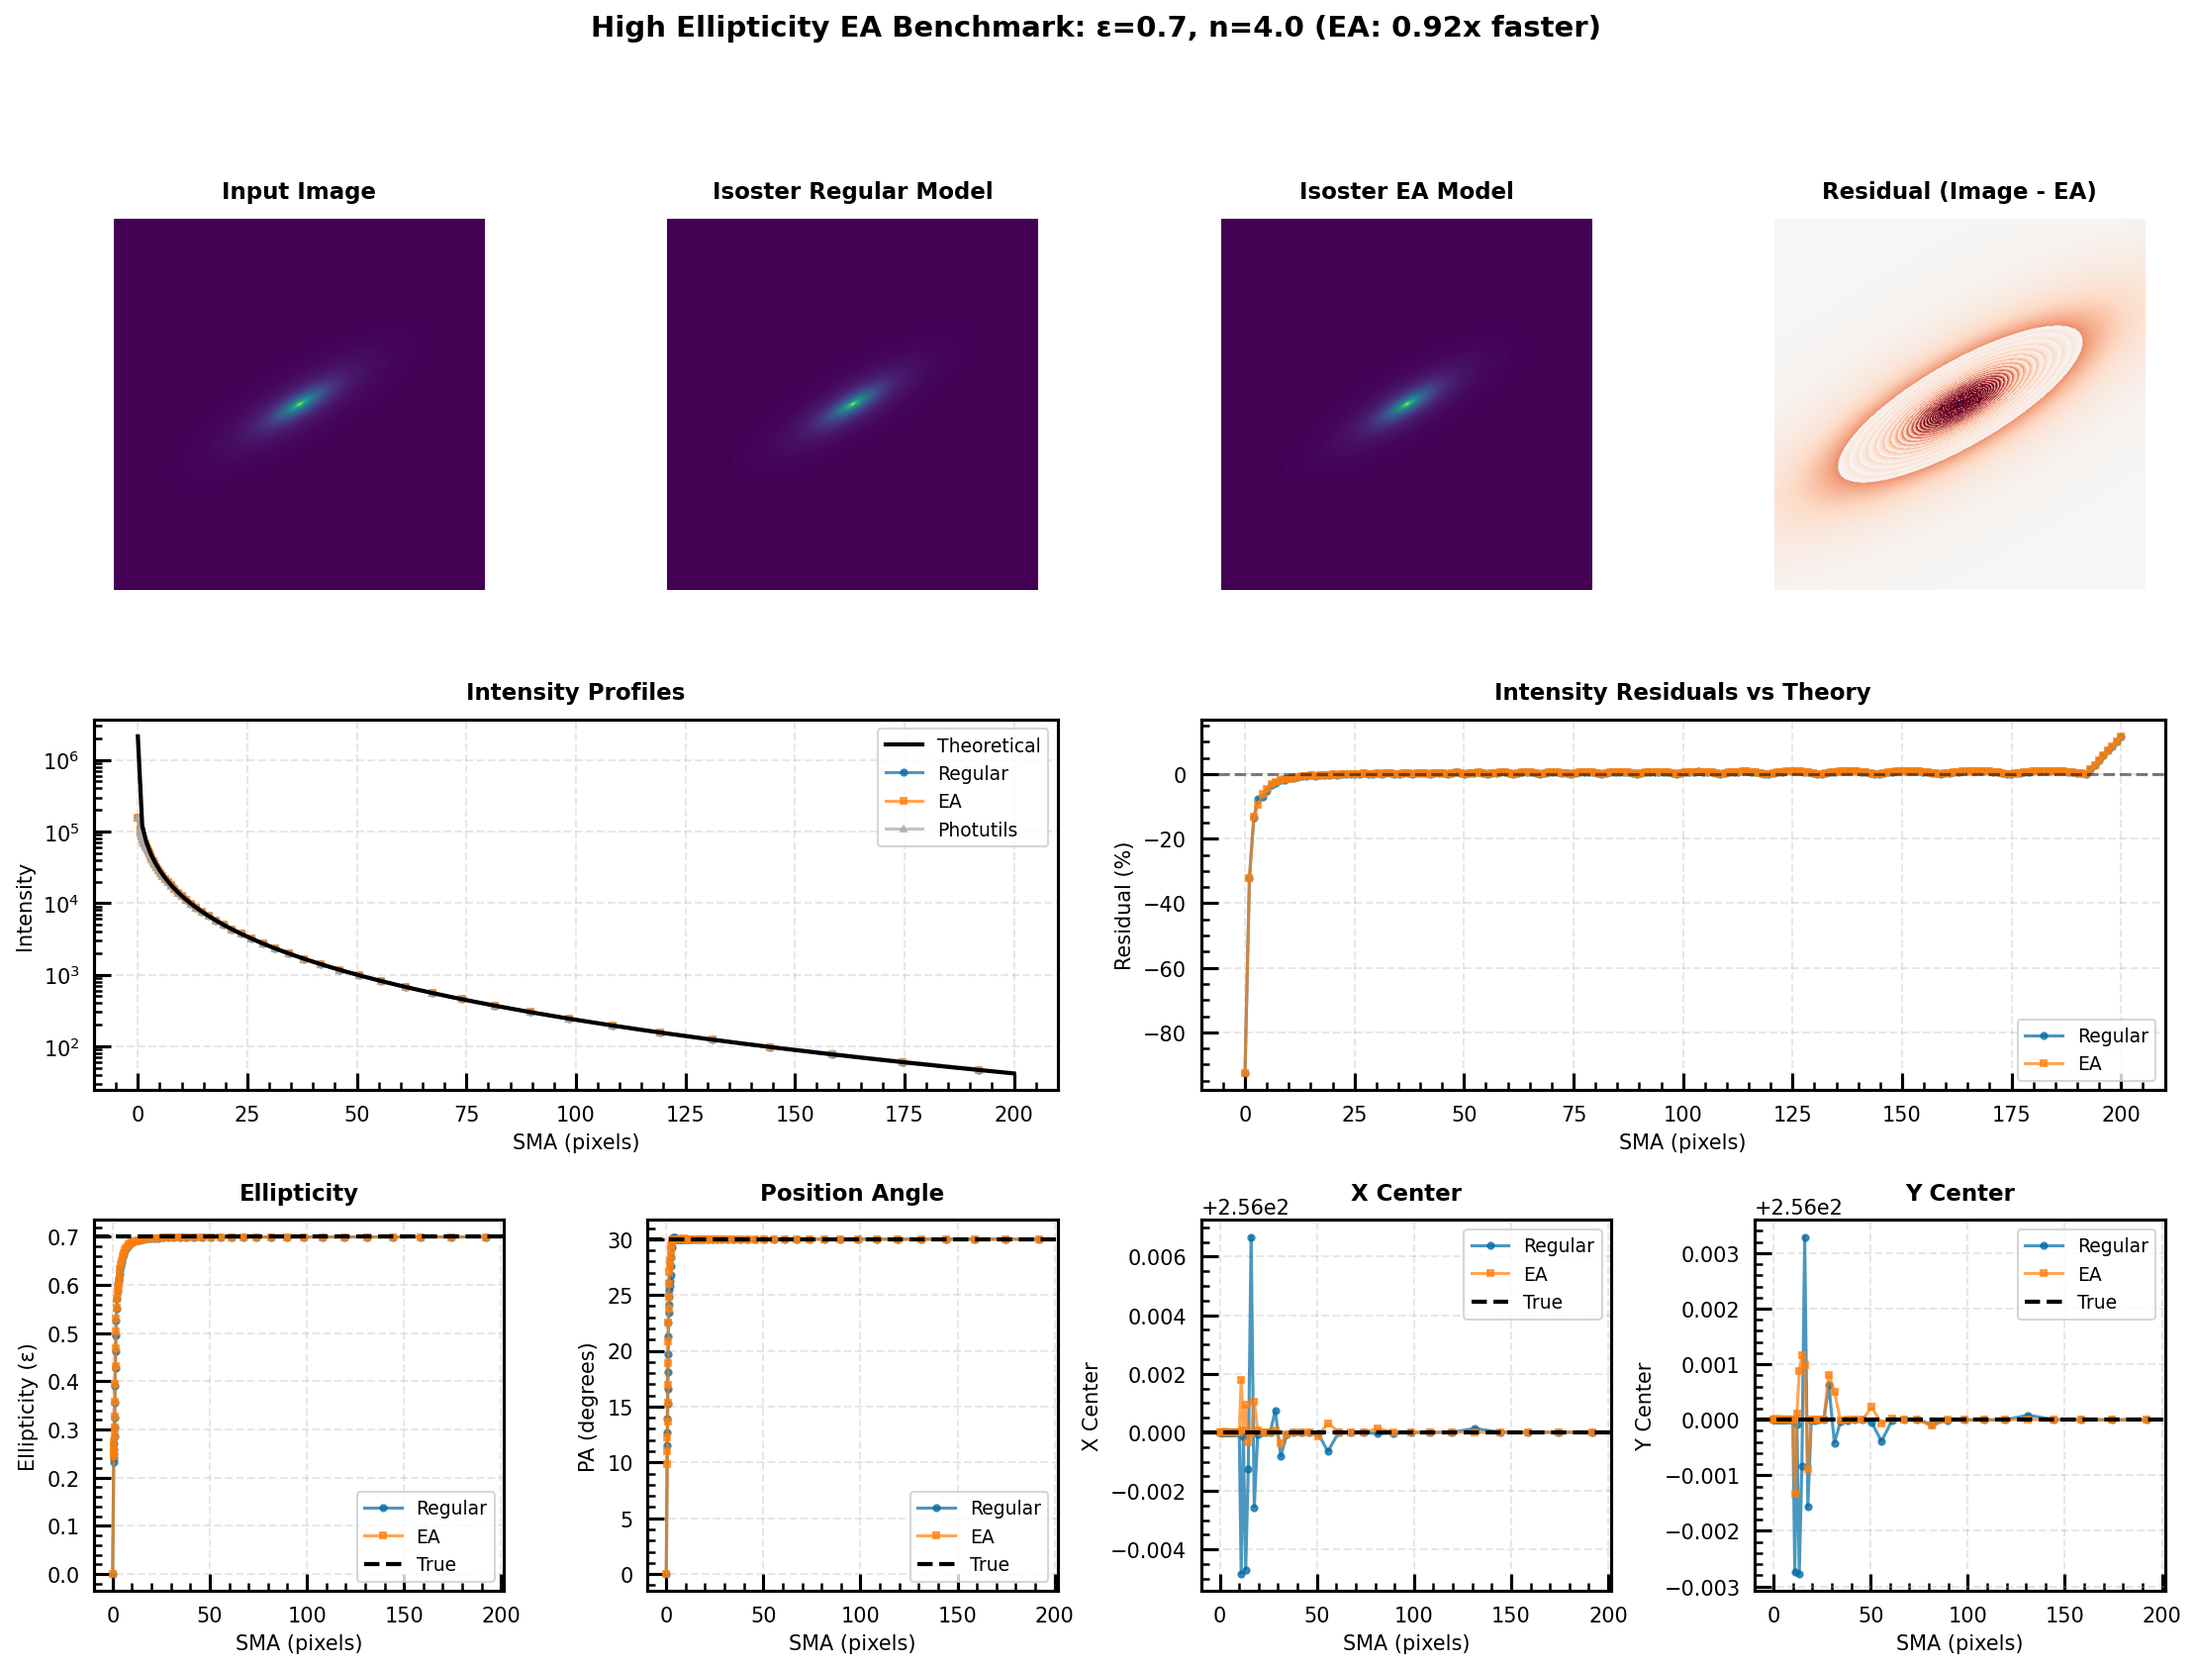
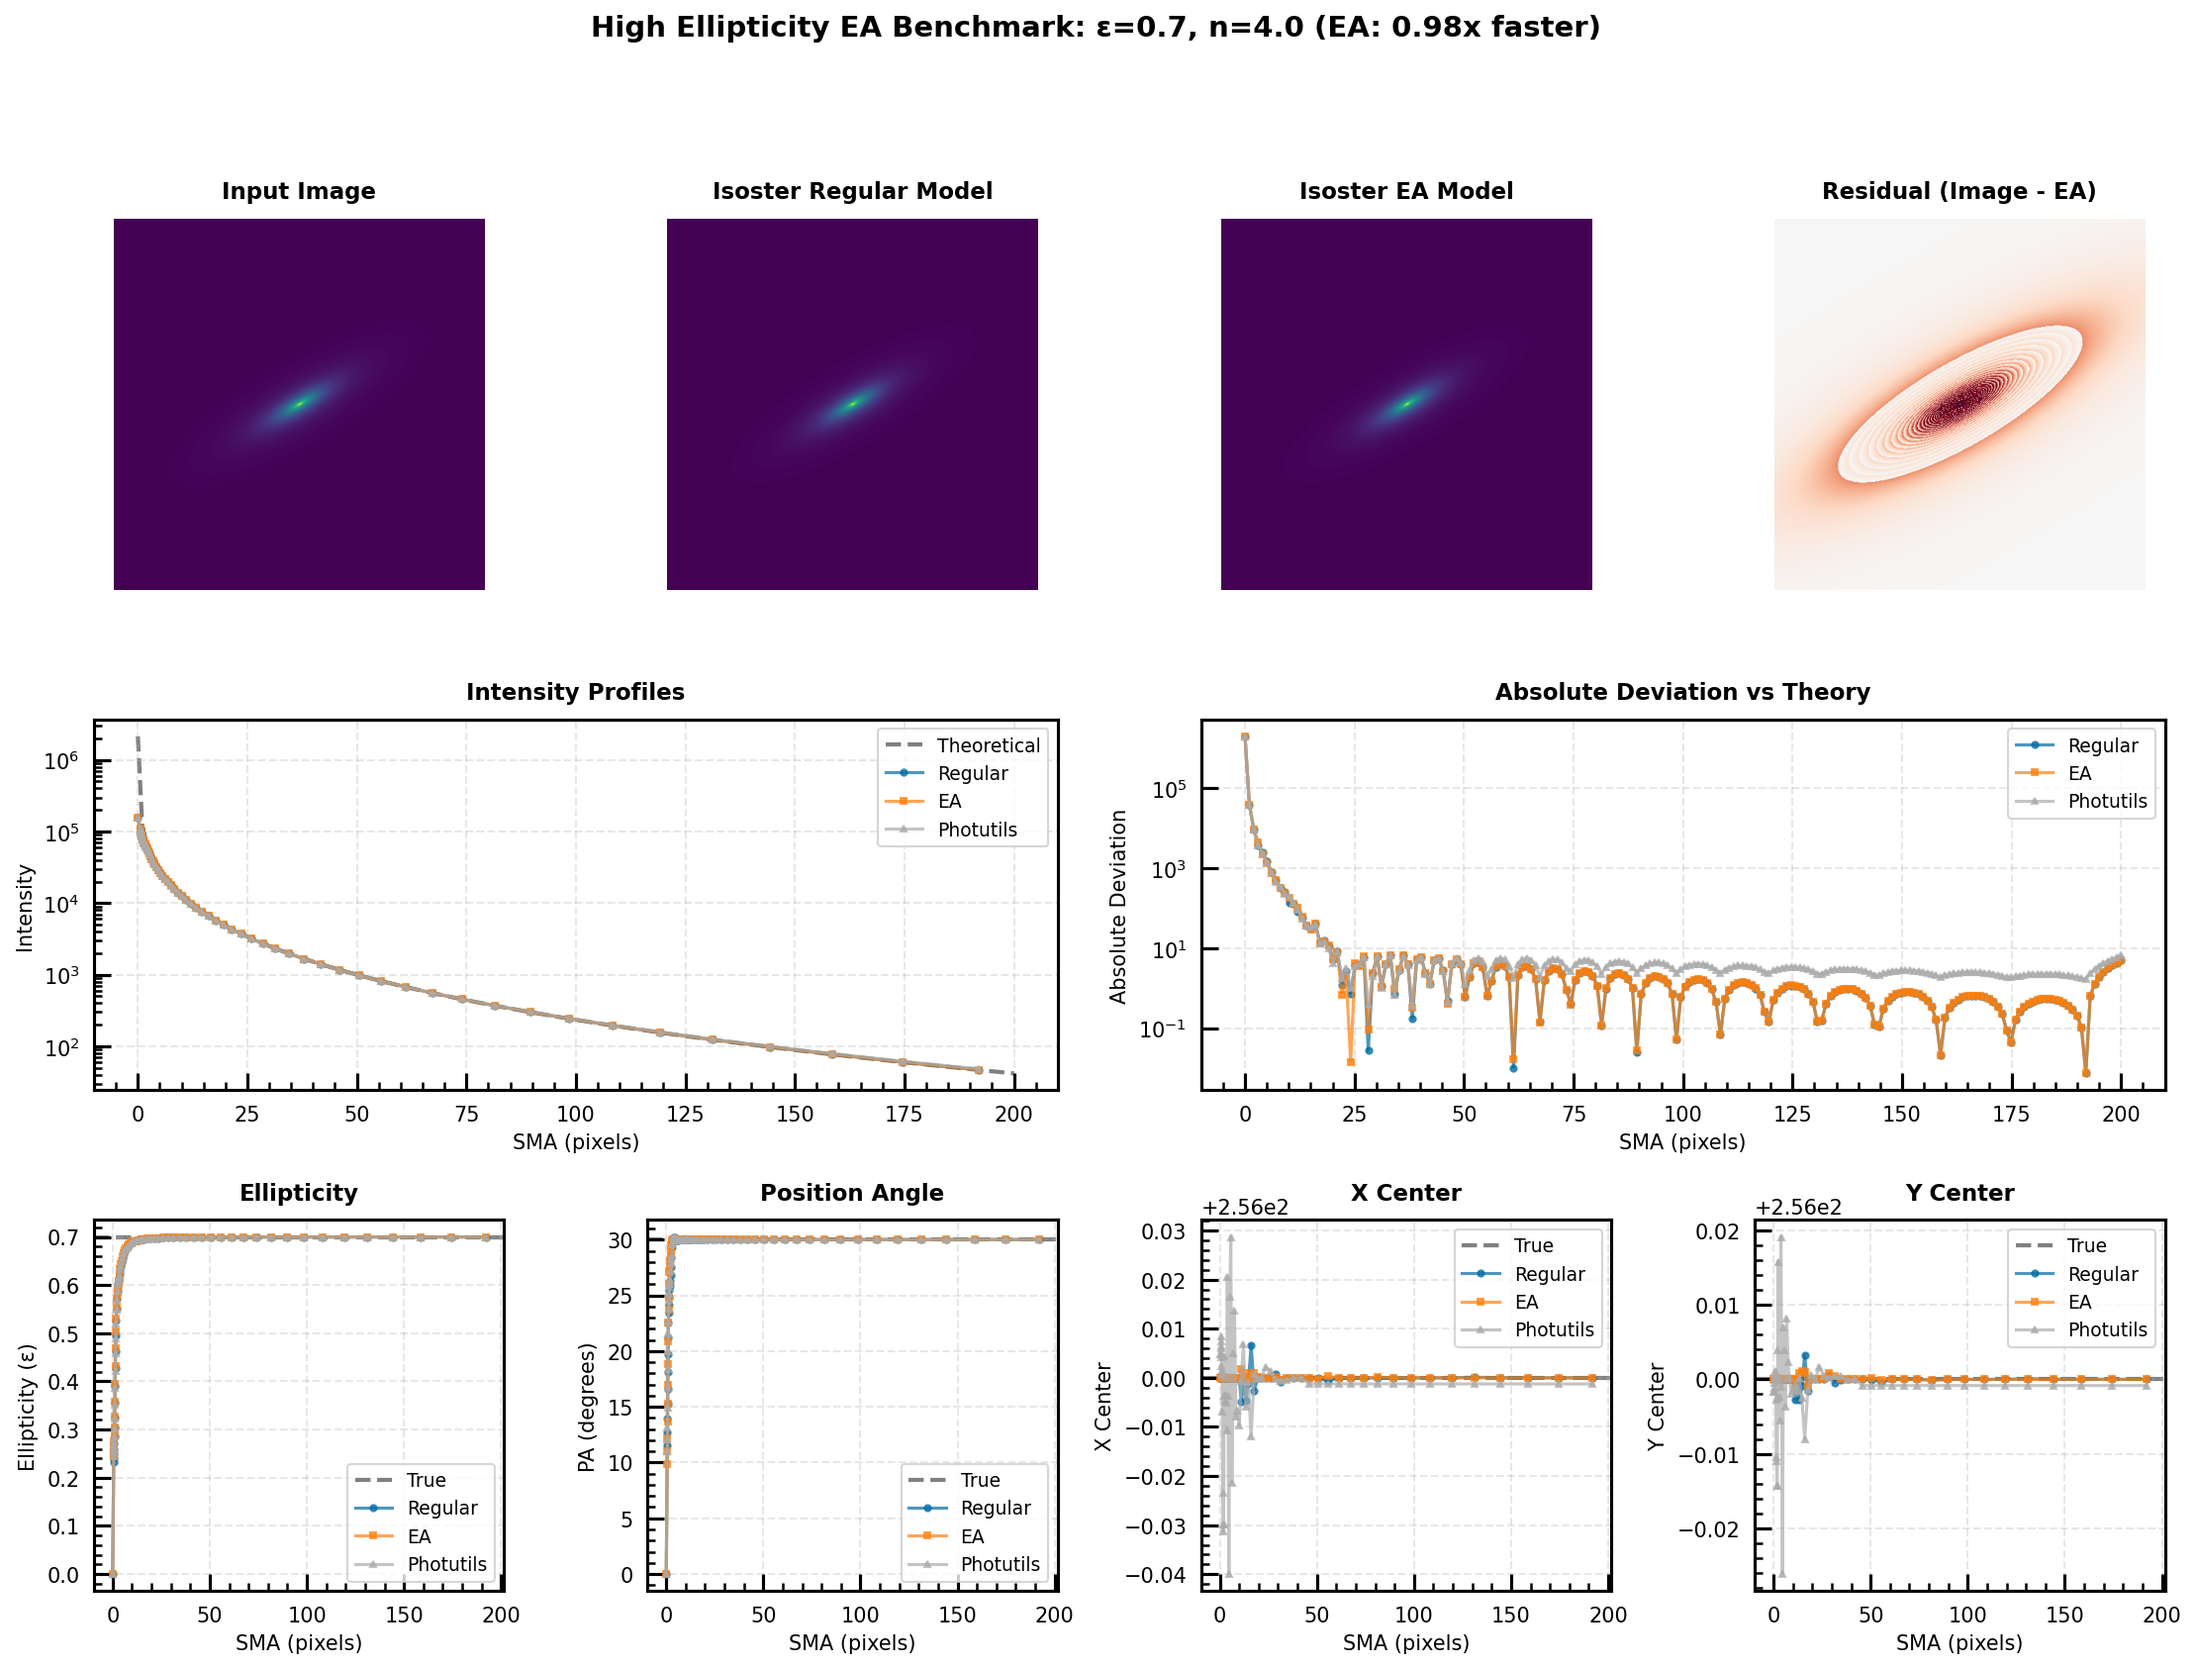
Update EA benchmark: 50x oversample, abs deviation log scale, photutils in all panels, grey dashed reference

diff --git a/examples/run_high_ellipticity_test.py b/examples/run_high_ellipticity_test.py
@@ -48,12 +48,12 @@ def sersic_1d_profile_major_axis(sma_array, I_e, r_e, n, eps):
     """
     return sersic_profile(sma_array, I_e, r_e, n)
 
-def generate_high_ellipticity_sersic(size=512, I_e=1000.0, r_e=50.0, n=4.0, eps=0.7, pa=30.0, oversample=30):
+def generate_high_ellipticity_sersic(size=512, I_e=1000.0, r_e=50.0, n=4.0, eps=0.7, pa=30.0, oversample=50):
     """
-    Generate high-ellipticity Sersic profile with high oversampling.
+    Generate high-ellipticity Sersic profile with very high oversampling.
     
     Args:
-        oversample: Oversampling factor (30 for accuracy with steep gradients)
+        oversample: Oversampling factor (50 for accuracy with high n and high ε)
     """
     # Create oversampled grid
     size_over = size * oversample
@@ -139,13 +139,13 @@ def run_comprehensive_test():
     pa = 30.0
     
     image, params = generate_high_ellipticity_sersic(
-        size=512, I_e=I_e, r_e=r_e, n=n, eps=eps, pa=pa, oversample=30
+        size=512, I_e=I_e, r_e=r_e, n=n, eps=eps, pa=pa, oversample=50
     )
     
     print(f"   Size: {image.shape[0]}x{image.shape[1]}")
     print(f"   I_e: {I_e}, r_e: {r_e}, n: {n}")
     print(f"   eps: {eps} (b/a = {1-eps:.2f}), PA: {pa}°")
-    print(f"   Oversample: 30x for accurate rendering")
+    print(f"   Oversample: 50x for accurate rendering")
     
     # Shared configuration - FREE GEOMETRY
     base_config = dict(
@@ -243,6 +243,15 @@ def run_comprehensive_test():
     ea_x0 = np.array([iso['x0'] for iso in ea_iso])
     ea_y0 = np.array([iso['y0'] for iso in ea_iso])
     
+    # Photutils data
+    if photutils_iso:
+        phot_sma = np.array([iso['sma'] for iso in photutils_iso])
+        phot_intens = np.array([iso['intens'] for iso in photutils_iso])
+        phot_eps = np.array([iso['eps'] for iso in photutils_iso])
+        phot_pa = np.array([iso['pa'] for iso in photutils_iso])
+        phot_x0 = np.array([iso['x0'] for iso in photutils_iso])
+        phot_y0 = np.array([iso['y0'] for iso in photutils_iso])
+    
     # Theoretical profile
     common_sma = np.linspace(0, 200, 200)
     theoretical_intens = sersic_1d_profile_major_axis(common_sma, I_e, r_e, n, eps)
@@ -281,12 +290,10 @@ def run_comprehensive_test():
     ax_intens = fig.add_subplot(gs[1, :2])
     ax_intens_resid = fig.add_subplot(gs[1, 2:])
     
-    ax_intens.semilogy(common_sma, theoretical_intens, 'k-', linewidth=2, label='Theoretical', zorder=10)
+    ax_intens.semilogy(common_sma, theoretical_intens, '--', color='grey', linewidth=2, label='Theoretical', zorder=0)
     ax_intens.semilogy(reg_sma, reg_intens, 'o-', markersize=3, label='Regular', alpha=0.7)
     ax_intens.semilogy(ea_sma, ea_intens, 's-', markersize=3, label='EA', alpha=0.7)
     if photutils_iso:
-        phot_sma = np.array([iso['sma'] for iso in photutils_iso])
-        phot_intens = np.array([iso['intens'] for iso in photutils_iso])
         ax_intens.semilogy(phot_sma, phot_intens, '^-', markersize=3, label='Photutils', alpha=0.7)
     ax_intens.set_xlabel('SMA (pixels)', fontsize=10)
     ax_intens.set_ylabel('Intensity', fontsize=10)
@@ -294,20 +301,24 @@ def run_comprehensive_test():
     ax_intens.grid(True, alpha=0.3)
     ax_intens.set_title('Intensity Profiles', fontsize=11, weight='bold')
     
-    # Intensity residuals vs theoretical
+    # Absolute deviation vs theoretical
     reg_intens_interp = np.interp(common_sma, reg_sma, reg_intens)
     ea_intens_interp = np.interp(common_sma, ea_sma, ea_intens)
-    reg_resid = (reg_intens_interp - theoretical_intens) / theoretical_intens * 100
-    ea_resid = (ea_intens_interp - theoretical_intens) / theoretical_intens * 100
+    reg_abs_dev = np.abs(reg_intens_interp - theoretical_intens)
+    ea_abs_dev = np.abs(ea_intens_interp - theoretical_intens)
+    if photutils_iso:
+        phot_intens_interp = np.interp(common_sma, phot_sma, phot_intens)
+        phot_abs_dev = np.abs(phot_intens_interp - theoretical_intens)
     
-    ax_intens_resid.plot(common_sma, reg_resid, 'o-', markersize=3, label='Regular', alpha=0.7)
-    ax_intens_resid.plot(common_sma, ea_resid, 's-', markersize=3, label='EA', alpha=0.7)
-    ax_intens_resid.axhline(0, color='k', linestyle='--', alpha=0.5)
+    ax_intens_resid.semilogy(common_sma, reg_abs_dev, 'o-', markersize=3, label='Regular', alpha=0.7)
+    ax_intens_resid.semilogy(common_sma, ea_abs_dev, 's-', markersize=3, label='EA', alpha=0.7)
+    if photutils_iso:
+        ax_intens_resid.semilogy(common_sma, phot_abs_dev, '^-', markersize=3, label='Photutils', alpha=0.7)
     ax_intens_resid.set_xlabel('SMA (pixels)', fontsize=10)
-    ax_intens_resid.set_ylabel('Residual (%)', fontsize=10)
+    ax_intens_resid.set_ylabel('Absolute Deviation', fontsize=10)
     ax_intens_resid.legend(fontsize=9)
     ax_intens_resid.grid(True, alpha=0.3)
-    ax_intens_resid.set_title('Intensity Residuals vs Theory', fontsize=11, weight='bold')
+    ax_intens_resid.set_title('Absolute Deviation vs Theory', fontsize=11, weight='bold')
     
     # Row 3: Geometry parameters
     ax_eps = fig.add_subplot(gs[2, 0])
@@ -315,36 +326,44 @@ def run_comprehensive_test():
     ax_x0 = fig.add_subplot(gs[2, 2])
     ax_y0 = fig.add_subplot(gs[2, 3])
     
+    ax_eps.axhline(eps, color='grey', linestyle='--', label='True', linewidth=2, zorder=0)
     ax_eps.plot(reg_sma, reg_eps, 'o-', markersize=3, label='Regular', alpha=0.7)
     ax_eps.plot(ea_sma, ea_eps, 's-', markersize=3, label='EA', alpha=0.7)
-    ax_eps.axhline(eps, color='k', linestyle='--', label='True', linewidth=2)
+    if photutils_iso:
+        ax_eps.plot(phot_sma, phot_eps, '^-', markersize=3, label='Photutils', alpha=0.7)
     ax_eps.set_xlabel('SMA (pixels)', fontsize=10)
     ax_eps.set_ylabel('Ellipticity (ε)', fontsize=10)
     ax_eps.legend(fontsize=9)
     ax_eps.grid(True, alpha=0.3)
     ax_eps.set_title('Ellipticity', fontsize=11, weight='bold')
     
+    ax_pa.axhline(pa, color='grey', linestyle='--', label='True', linewidth=2, zorder=0)
     ax_pa.plot(reg_sma, np.degrees(reg_pa), 'o-', markersize=3, label='Regular', alpha=0.7)
     ax_pa.plot(ea_sma, np.degrees(ea_pa), 's-', markersize=3, label='EA', alpha=0.7)
-    ax_pa.axhline(pa, color='k', linestyle='--', label='True', linewidth=2)
+    if photutils_iso:
+        ax_pa.plot(phot_sma, np.degrees(phot_pa), '^-', markersize=3, label='Photutils', alpha=0.7)
     ax_pa.set_xlabel('SMA (pixels)', fontsize=10)
     ax_pa.set_ylabel('PA (degrees)', fontsize=10)
     ax_pa.legend(fontsize=9)
     ax_pa.grid(True, alpha=0.3)
     ax_pa.set_title('Position Angle', fontsize=11, weight='bold')
     
+    ax_x0.axhline(params['x0'], color='grey', linestyle='--', label='True', linewidth=2, zorder=0)
     ax_x0.plot(reg_sma, reg_x0, 'o-', markersize=3, label='Regular', alpha=0.7)
     ax_x0.plot(ea_sma, ea_x0, 's-', markersize=3, label='EA', alpha=0.7)
-    ax_x0.axhline(params['x0'], color='k', linestyle='--', label='True', linewidth=2)
+    if photutils_iso:
+        ax_x0.plot(phot_sma, phot_x0, '^-', markersize=3, label='Photutils', alpha=0.7)
     ax_x0.set_xlabel('SMA (pixels)', fontsize=10)
     ax_x0.set_ylabel('X Center', fontsize=10)
     ax_x0.legend(fontsize=9)
     ax_x0.grid(True, alpha=0.3)
     ax_x0.set_title('X Center', fontsize=11, weight='bold')
     
+    ax_y0.axhline(params['y0'], color='grey', linestyle='--', label='True', linewidth=2, zorder=0)
     ax_y0.plot(reg_sma, reg_y0, 'o-', markersize=3, label='Regular', alpha=0.7)
     ax_y0.plot(ea_sma, ea_y0, 's-', markersize=3, label='EA', alpha=0.7)
-    ax_y0.axhline(params['y0'], color='k', linestyle='--', label='True', linewidth=2)
+    if photutils_iso:
+        ax_y0.plot(phot_sma, phot_y0, '^-', markersize=3, label='Photutils', alpha=0.7)
     ax_y0.set_xlabel('SMA (pixels)', fontsize=10)
     ax_y0.set_ylabel('Y Center', fontsize=10)
     ax_y0.legend(fontsize=9)
